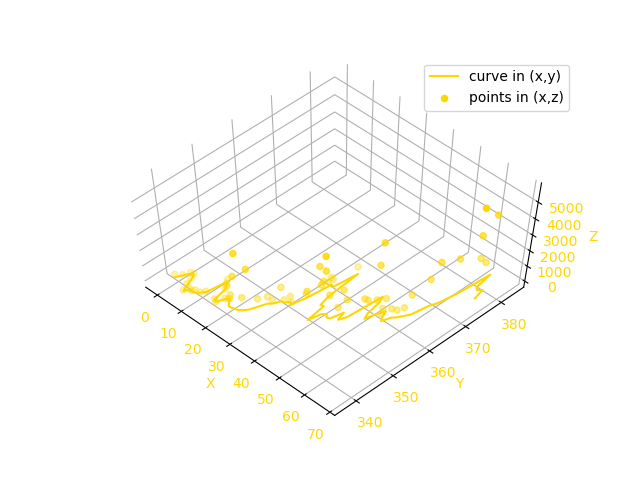
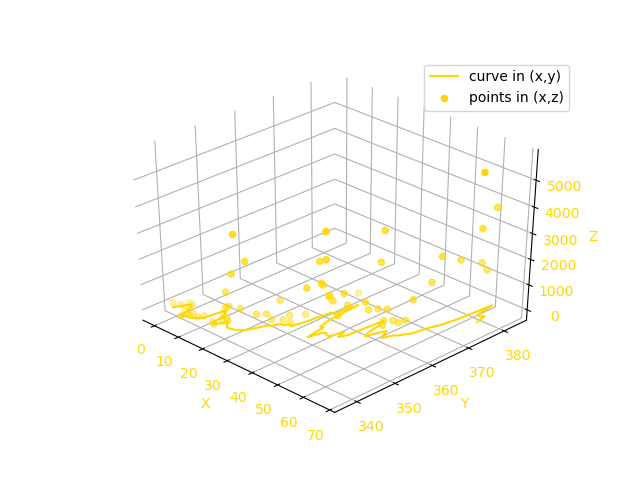
update 3dplot

Changed region(s): [[0.2188, 0.1562, 0.9062, 0.9062], [0.2188, 0.7188, 0.25, 0.75]]

diff --git a/EZproject001/EZsite001/financialanalysis.py b/EZproject001/EZsite001/financialanalysis.py
@@ -127,7 +127,7 @@ def plot_3D(name):
     ax.set_xlabel('X')
     ax.set_ylabel('Y')
     ax.set_zlabel('Z')
-    ax.view_init(elev=60, azim=-45)
+    ax.view_init(elev=35, azim=-45)
     plt.xticks(color='gold')
     plt.yticks(color='gold')
     ax.tick_params(axis='z', colors='gold')
